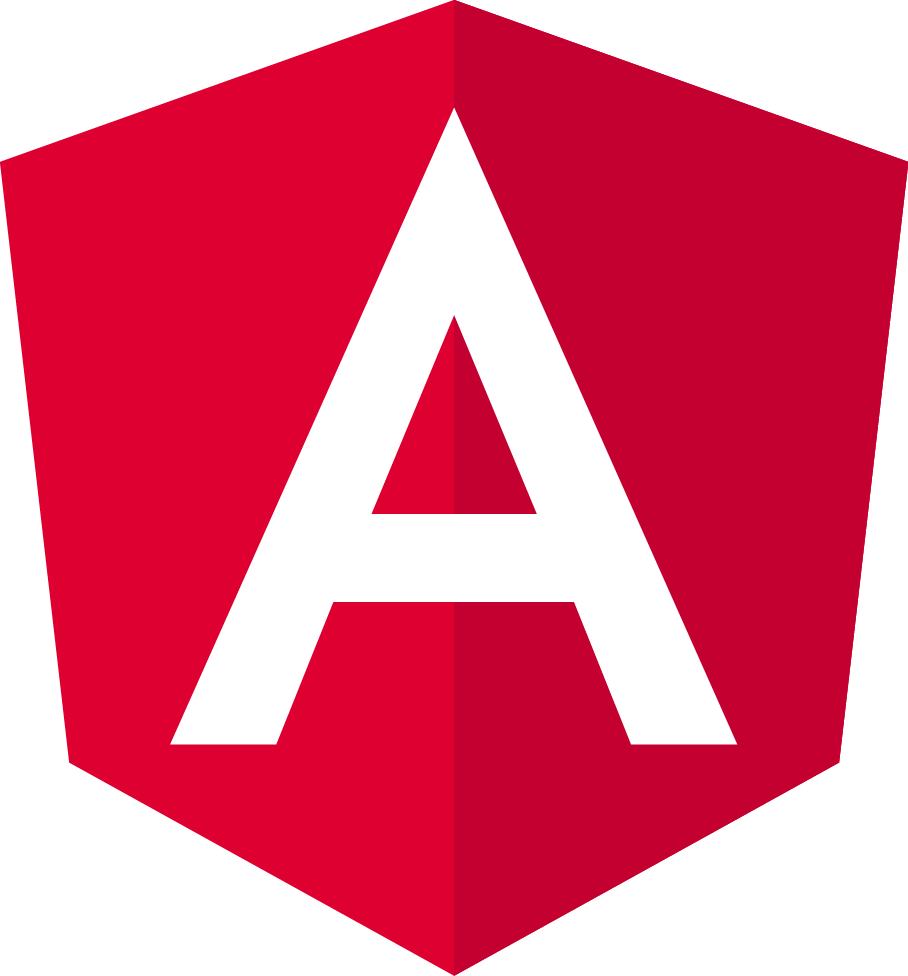
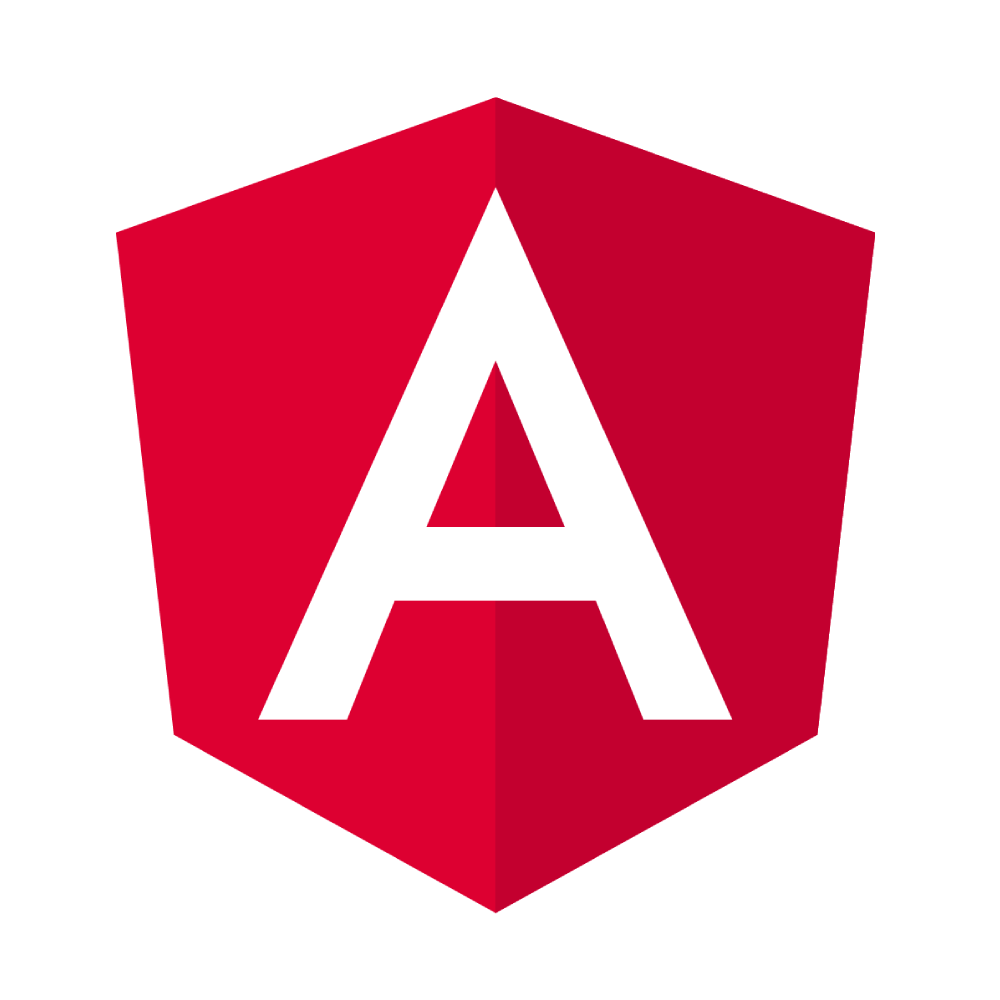
update 1.0.1

diff --git a/src/components/Navbar.jsx b/src/components/Navbar.jsx
@@ -1,7 +1,6 @@
 import arkxLogo from "../assets/arkxacademy.png";
 import ReactLogo from "../assets/react.png";
 import AngularLogo from "../assets/angular.png";
-import JobinTechLogo from "../assets/jobintech.png";
 
 export default function Navbar() {
   return (
@@ -26,16 +25,39 @@ export default function Navbar() {
           </label>
           <ul
             tabIndex={0}
-            className="menu menu-sm dropdown-content mt-3 z-[1] p-2 shadow bg-base-100 rounded-box w-52"
+            className="menu menu-sm dropdown-content mt-3 z-[1] p-2 shadow bg-base-100 rounded-box w-96"
           >
             <li>
-              <a>Homepage</a>
+              <a>Home</a>
             </li>
             <li>
-              <a>Portfolio</a>
+              <a>Our Programs</a>
+              <ul className="p-2">
+                <li className="">
+                  <a className="flex justify-start items-center w-full">
+                    <img
+                      src={ReactLogo}
+                      alt="react js"
+                      className="h-8 w-auto"
+                    />
+                    <span>Full Stack JavaScript (MERN)</span>
+                  </a>
+                </li>
+                <li>
+                  <a className="flex justify-start items-center w-full">
+                    {" "}
+                    <img
+                      src={AngularLogo}
+                      alt="angular"
+                      className="h-8 w-auto"
+                    />
+                    <span>Full Stack Java, Spring & Angular</span>
+                  </a>
+                </li>
+              </ul>
             </li>
             <li>
-              <a>About</a>
+              <a>Testimonials</a>
             </li>
           </ul>
         </div>

diff --git a/src/sections/OurProgram.jsx b/src/sections/OurProgram.jsx
@@ -102,7 +102,7 @@ export default function OurProgram() {
             <div className="divide-y space-y-4 divide-gray-100 dark:divide-gray-800">
               <div className="mt-8 flex gap-4 md:items-center">
                 <div className="w-12 h-12 flex justify-center items-center gap-4 rounded-full bg-red-100 dark:bg-teal-900/20">
-                  <img src={AngularLogo} className="h-7 w-auto" alt="react js" />
+                  <img src={AngularLogo} className="h-8 w-auto" alt="react js" />
                 </div>
                 <div className="w-5/6">
                   <div className="relative">
@@ -143,7 +143,7 @@ export default function OurProgram() {
               <div className="w-28 bottom-0 bg-red-200 filter blur-2xl rounded-full h-28 absolute" />
               <img
                 src={AngularLogo}
-                className="h-24 bottom-0 w-auto animate-pulse rounded-xl object-cover object-top"
+                className="h-28 bottom-0 w-auto animate-pulse rounded-xl object-cover object-top"
                 width={640}
                 height={640}
                 alt="react js"
